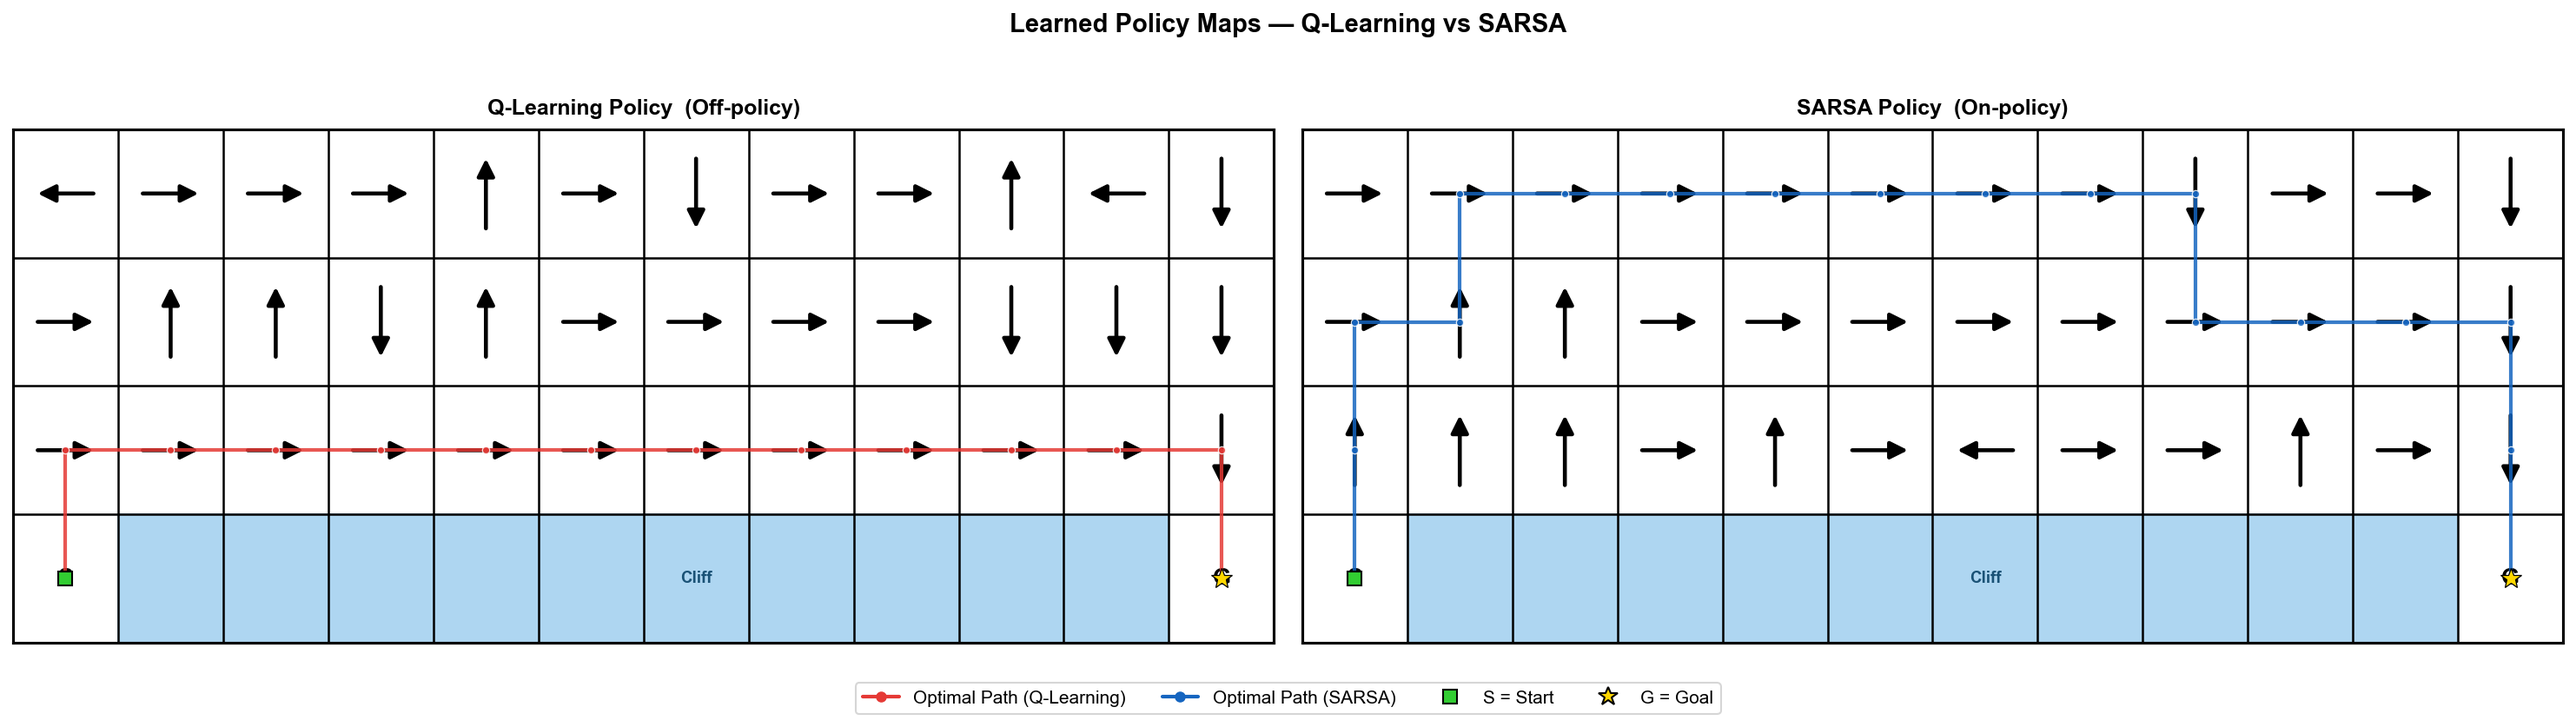
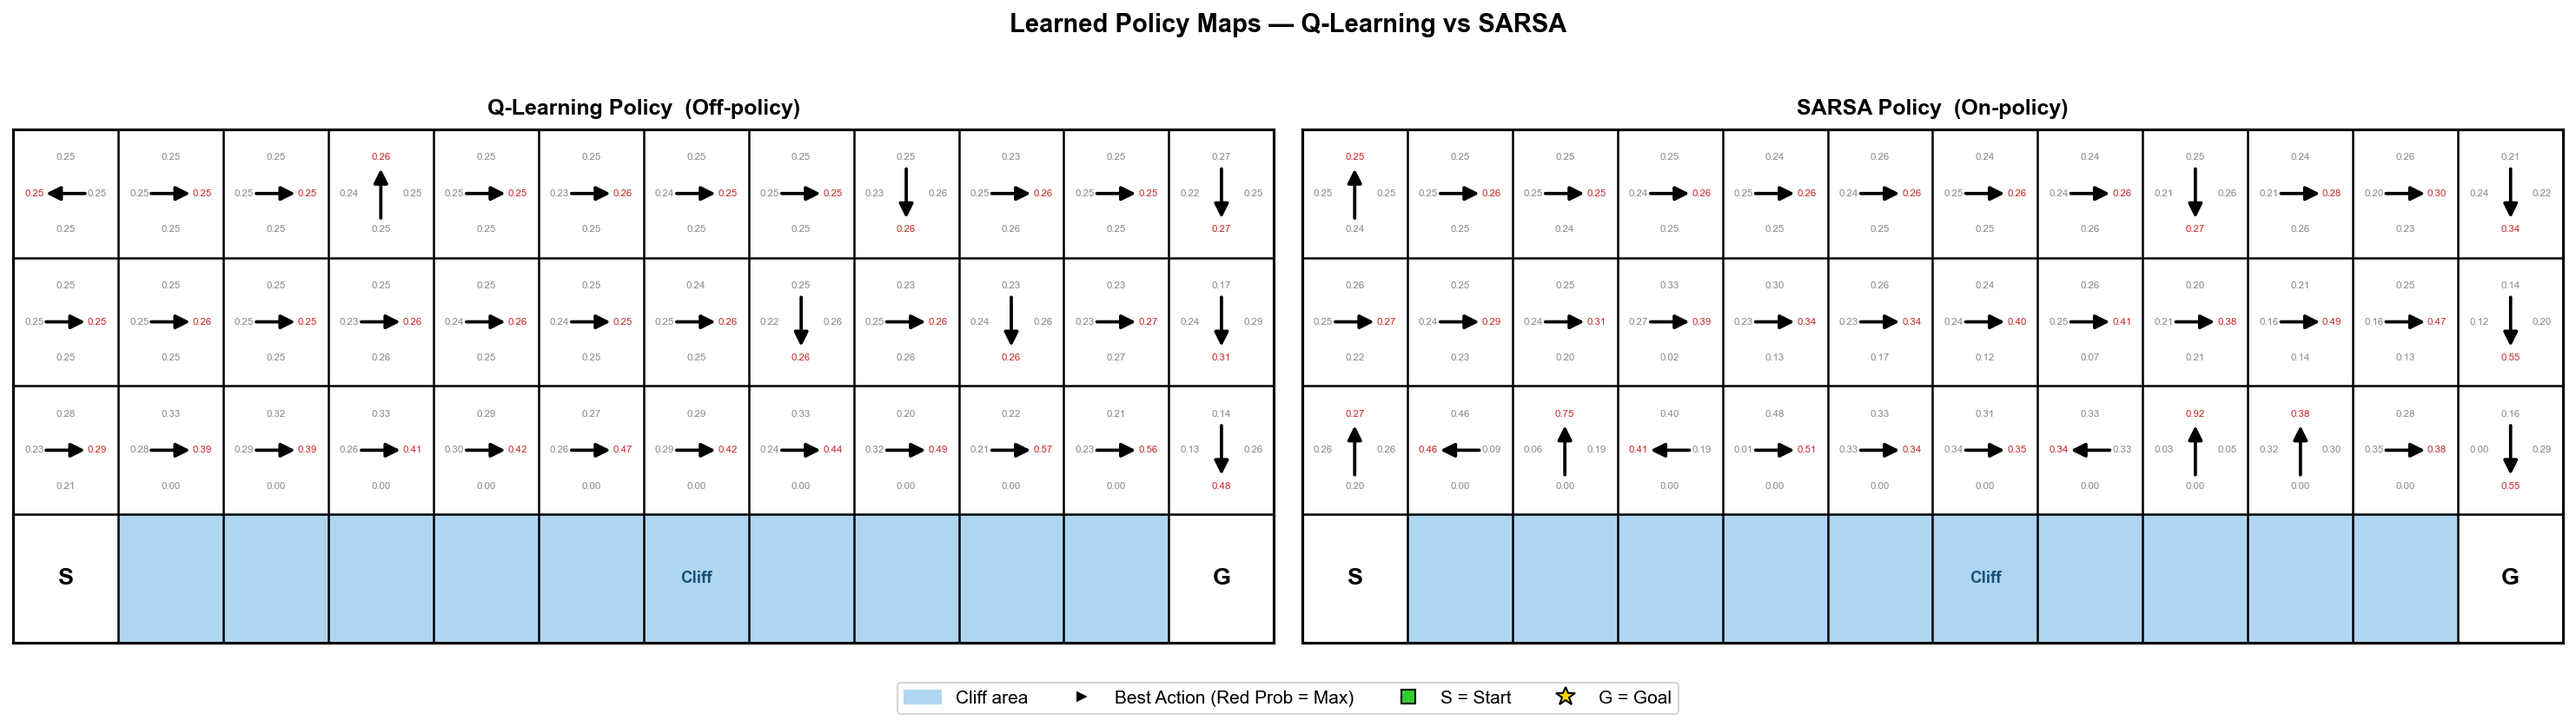
feat: swap probabilities and path overlay between policy map and path map

diff --git a/main.py b/main.py
@@ -318,8 +318,8 @@ def plot_policy_style(q_agent, s_agent, env, save_path):
 ARROW_CHARS = {0: '^', 1: 'v', 2: '<', 3: '>'}   # ASCII fallback
 
 
-def _draw_policy_grid(ax, agent, env, title, path_color):
-    """Draw one policy grid panel: white bg, bold arrows, small path overlay."""
+def _draw_policy_grid(ax, agent, env, title):
+    """Draw one policy grid panel: white bg, softmax probability labels per cell, best-action arrow."""
     rows, cols = env.get_grid_shape()
     ax.set_facecolor('white')
     ax.set_xlim(0, cols)
@@ -338,47 +338,57 @@ def _draw_policy_grid(ax, agent, env, title, path_color):
     for y in range(rows + 1):
         ax.axhline(y, color='black', linewidth=1.2, zorder=2)
 
-    # ── Cell content: big policy arrows ──
+    # ── Per-cell: softmax probability labels + best-action arrow ──
+    PROB_OFFSET = {
+        0: ( 0.0, -0.28),   # up
+        1: ( 0.0,  0.28),   # down
+        2: (-0.30,  0.0),   # left
+        3: ( 0.30,  0.0),   # right
+    }
+
     for r in range(rows):
         for c in range(cols):
             pos = (r, c)
             cx, cy = c + 0.5, r + 0.5
+
+            if pos == env.start:
+                ax.text(cx, cy, 'S', ha='center', va='center',
+                        fontsize=13, color='black', fontweight='bold', zorder=3)
+                continue
+            if pos == env.goal:
+                ax.text(cx, cy, 'G', ha='center', va='center',
+                        fontsize=13, color='black', fontweight='bold', zorder=3)
+                continue
             if pos in env.cliff:
                 if c == (env.cols // 2):
                     ax.text(cx, cy, 'Cliff', ha='center', va='center',
                             fontsize=9, color='#1A5276', fontweight='bold', zorder=3)
-            elif pos == env.start:
-                ax.text(cx, cy, 'S', ha='center', va='center',
-                        fontsize=13, color='black', fontweight='bold', zorder=3)
-            elif pos == env.goal:
-                ax.text(cx, cy, 'G', ha='center', va='center',
-                        fontsize=13, color='black', fontweight='bold', zorder=3)
-            else:
-                state = r * cols + c
-                best_a = agent.get_best_action(state)
-                u = ACTION_DC[best_a]
-                v = -ACTION_DR[best_a]
-                ax.annotate("",
-                    xy    =(cx + u * 0.30, cy - v * 0.30),
-                    xytext=(cx - u * 0.30, cy + v * 0.30),
-                    arrowprops=dict(arrowstyle="-|>", color='black',
-                                   lw=2.2, mutation_scale=20),
-                    zorder=4
-                )
+                continue
 
-    # ── Optimal path overlay (smaller, colored) ──
-    opt_path = get_optimal_path(agent, env)
-    if opt_path is not None:
-        px = [p[1] + 0.5 for p in opt_path]
-        py = [p[0] + 0.5 for p in opt_path]
-        ax.plot(px, py, color=path_color, linewidth=2.0, zorder=6,
-                marker='o', markersize=4,
-                markerfacecolor=path_color, markeredgecolor='white',
-                markeredgewidth=0.6, alpha=0.85)
-        ax.plot(px[0],  py[0],  's', color='limegreen',
-                markersize=8, zorder=7, markeredgecolor='black', markeredgewidth=1.0)
-        ax.plot(px[-1], py[-1], '*', color='gold',
-                markersize=12, zorder=7, markeredgecolor='black', markeredgewidth=0.6)
+            state = r * cols + c
+            q_row  = agent.Q[state].cpu().float()
+            probs  = torch.softmax(q_row, dim=0).numpy()   # shape (4,)
+            best_a = int(q_row.argmax().item())
+
+            # Probability labels
+            prob_color = ['#888888', '#888888', '#888888', '#888888']
+            prob_color[best_a] = '#C62828'   # highlight greedy action probability in red
+            for a in range(4):
+                dx, dy = PROB_OFFSET[a]
+                ax.text(cx + dx, cy + dy, f'{probs[a]:.2f}',
+                        ha='center', va='center', fontsize=5.5,
+                        color=prob_color[a], zorder=4)
+
+            # Best-action arrow
+            u = ACTION_DC[best_a]
+            v = -ACTION_DR[best_a]
+            ax.annotate("",
+                xy    =(cx + u * 0.22, cy - v * 0.22),
+                xytext=(cx - u * 0.22, cy + v * 0.22),
+                arrowprops=dict(arrowstyle="-|>", color='black',
+                                lw=1.8, mutation_scale=16),
+                zorder=5
+            )
 
     # ── Axes cosmetics ──
     ax.set_xticks([])
@@ -393,17 +403,13 @@ def plot_policy_arrows(q_agent, s_agent, env, save_path):
     """Save style_policy.png: 1x2 subplots of policy direction maps."""
     fig, axes = plt.subplots(1, 2, figsize=(20, 5))
     fig.patch.set_facecolor('white')
-    _draw_policy_grid(axes[0], q_agent, env,
-                      "Q-Learning Policy  (Off-policy)", path_color='#E53935')
-    _draw_policy_grid(axes[1], s_agent, env,
-                      "SARSA Policy  (On-policy)",       path_color='#1565C0')
+    _draw_policy_grid(axes[0], q_agent, env, "Q-Learning Policy  (Off-policy)")
+    _draw_policy_grid(axes[1], s_agent, env, "SARSA Policy  (On-policy)")
 
-    # ── Legend for the path overlay ──
+    # ── Legend ──
     legend_elements = [
-        plt.Line2D([0], [0], color='#E53935', lw=2, marker='o', markersize=5,
-                   label='Optimal Path (Q-Learning)'),
-        plt.Line2D([0], [0], color='#1565C0', lw=2, marker='o', markersize=5,
-                   label='Optimal Path (SARSA)'),
+        mpatches.Patch(color='#AED6F1', label='Cliff area'),
+        plt.Line2D([0], [0], color='w', marker='>', markerfacecolor='black', markersize=8, label='Best Action (Red Prob = Max)'),
         plt.Line2D([0], [0], marker='s', color='w', markerfacecolor='limegreen',
                    markersize=8, markeredgecolor='black', label='S = Start'),
         plt.Line2D([0], [0], marker='*', color='w', markerfacecolor='gold',
@@ -447,16 +453,7 @@ def _draw_path_grid(ax, agent, env, title, path_color):
     for y in range(rows + 1):
         ax.axhline(y, color='black', linewidth=1.0, zorder=2)
 
-    # ── Per-cell: softmax probability labels + best-action arrow ──
-    # Softmax of Q-values gives relative probability of each direction
-    # Label positions (dx, dy from cell center): up, down, left, right
-    PROB_OFFSET = {
-        0: ( 0.0, -0.28),   # up
-        1: ( 0.0,  0.28),   # down
-        2: (-0.30,  0.0),   # left
-        3: ( 0.30,  0.0),   # right
-    }
-
+    # ── Cell labels: S, G, Cliff ──
     for r in range(rows):
         for c in range(cols):
             pos = (r, c)
@@ -465,41 +462,12 @@ def _draw_path_grid(ax, agent, env, title, path_color):
             if pos == env.start:
                 ax.text(cx, cy, 'S', ha='center', va='center',
                         fontsize=13, fontweight='bold', color='black', zorder=5)
-                continue
-            if pos == env.goal:
+            elif pos == env.goal:
                 ax.text(cx, cy, 'G', ha='center', va='center',
                         fontsize=13, fontweight='bold', color='black', zorder=5)
-                continue
-            if pos in env.cliff:
-                if c == (env.cols // 2):
-                    ax.text(cx, cy, 'Cliff', ha='center', va='center',
-                            fontsize=9, color='#1A5276', fontweight='bold', zorder=3)
-                continue
-
-            state = r * cols + c
-            q_row  = agent.Q[state].cpu().float()
-            probs  = torch.softmax(q_row, dim=0).numpy()   # shape (4,)
-            best_a = int(q_row.argmax().item())
-
-            # ── Probability labels (tiny text at 4 compass positions) ──
-            prob_color = ['#888888', '#888888', '#888888', '#888888']
-            prob_color[best_a] = '#C62828'   # highlight greedy action probability in red
-            for a in range(4):
-                dx, dy = PROB_OFFSET[a]
-                ax.text(cx + dx, cy + dy, f'{probs[a]:.2f}',
-                        ha='center', va='center', fontsize=5.5,
-                        color=prob_color[a], zorder=4)
-
-            # ── Best-action arrow (prominent, black) ──
-            u = ACTION_DC[best_a]
-            v = -ACTION_DR[best_a]
-            ax.annotate("",
-                xy    =(cx + u * 0.22, cy - v * 0.22),
-                xytext=(cx - u * 0.22, cy + v * 0.22),
-                arrowprops=dict(arrowstyle="-|>", color='black',
-                                lw=1.8, mutation_scale=16),
-                zorder=5
-            )
+            elif pos in env.cliff and c == (env.cols // 2):
+                ax.text(cx, cy, 'Cliff', ha='center', va='center',
+                        fontsize=9, color='#1A5276', fontweight='bold', zorder=3)
 
     # ── Optimal path overlay ──
     opt_path = get_optimal_path(agent, env)

diff --git a/ai_record.md b/ai_record.md
@@ -239,6 +239,34 @@ git push origin main
 
 ---
 
+### [使用者]
+抱歉我還有幾個小請求：
+policy幫我只顯示path的箭頭的機率數字(不要路徑)
+path 把原本的機率數字拿掉 自己不要顯示(但還是要路徑)
+
+### [AI]
+沒問題，這就將兩張圖的元素對調，讓它們更符合您的表達需求！
+1. **style_policy.png**：改為顯示每個格子的「最佳動作黑箭頭 + 4 方向機率數字（最大機率標紅字）」，並移除路徑疊加線條，讓這張圖純粹展現策略與機率分佈。
+2. **style_path.png**：移除機率數字與原本格子上的箭頭，僅保留最單純乾淨的網格以及疊加上去的最佳路徑（紅線/藍線），讓視覺焦點全集中在走法上！
+
+執行指令並產生新圖：
+```bash
+$env:PYTHONIOENCODING="utf-8"
+& "C:\Users\absol\conda\envs\py3.8\python.exe" main.py
+# Q-Learning Final 50-ep avg reward: -35.34
+# SARSA     Final 50-ep avg reward: -20.14
+# [✓] Saved Graph.png
+# [✓] Saved policy map → style_policy.png
+# [✓] Saved path map → style_path.png
+# Exit code: 0
+
+git add .
+git commit -m "feat: swap probabilities and path overlay between policy map and path map"
+git push origin main
+```
+
+---
+
 ## 最終交付清單（最終版）
 
 | 文件 | 位置 | 說明 | 狀態 |
@@ -249,8 +277,8 @@ git push origin main
 | startup.sh | 專案根目錄 | Openspec 啟動自動化腳本 | ✅ |
 | ending.sh | 專案根目錄 | Openspec 結束自動化腳本 | ✅ |
 | Graph.png | 專案根目錄 | Learning Curve（Y 軸 -300~0）| ✅ |
-| style_policy.png | 專案根目錄 | Policy 方向圖 + 小路徑線疊加 | ✅ |
-| style_path.png | 專案根目錄 | 白底路徑圖 + softmax 機率標籤 | ✅ |
-| Report.md | 專案根目錄 | 完整分析報告 | ✅ |
+| style_policy.png | 專案根目錄 | 策略圖（機率標籤＋最佳箭頭，無路徑）| ✅ |
+| style_path.png | 專案根目錄 | 路徑圖（僅乾淨網格＋最佳路徑線） | ✅ |
+| README.md | 專案根目錄 | 完整分析與架構報告 | ✅ |
 | ai_record.md | 專案根目錄 | 本 AI 對話紀錄（供手動上傳）| ✅ |
-| GitHub Push | GuanYuXx/A-Comparative-Study-... | 所有程式碼與圖表（共 8 次 commit）| ✅ |
+| GitHub Push | GuanYuXx/A-Comparative-Study-... | 所有程式碼與最新圖表 | ✅ |
